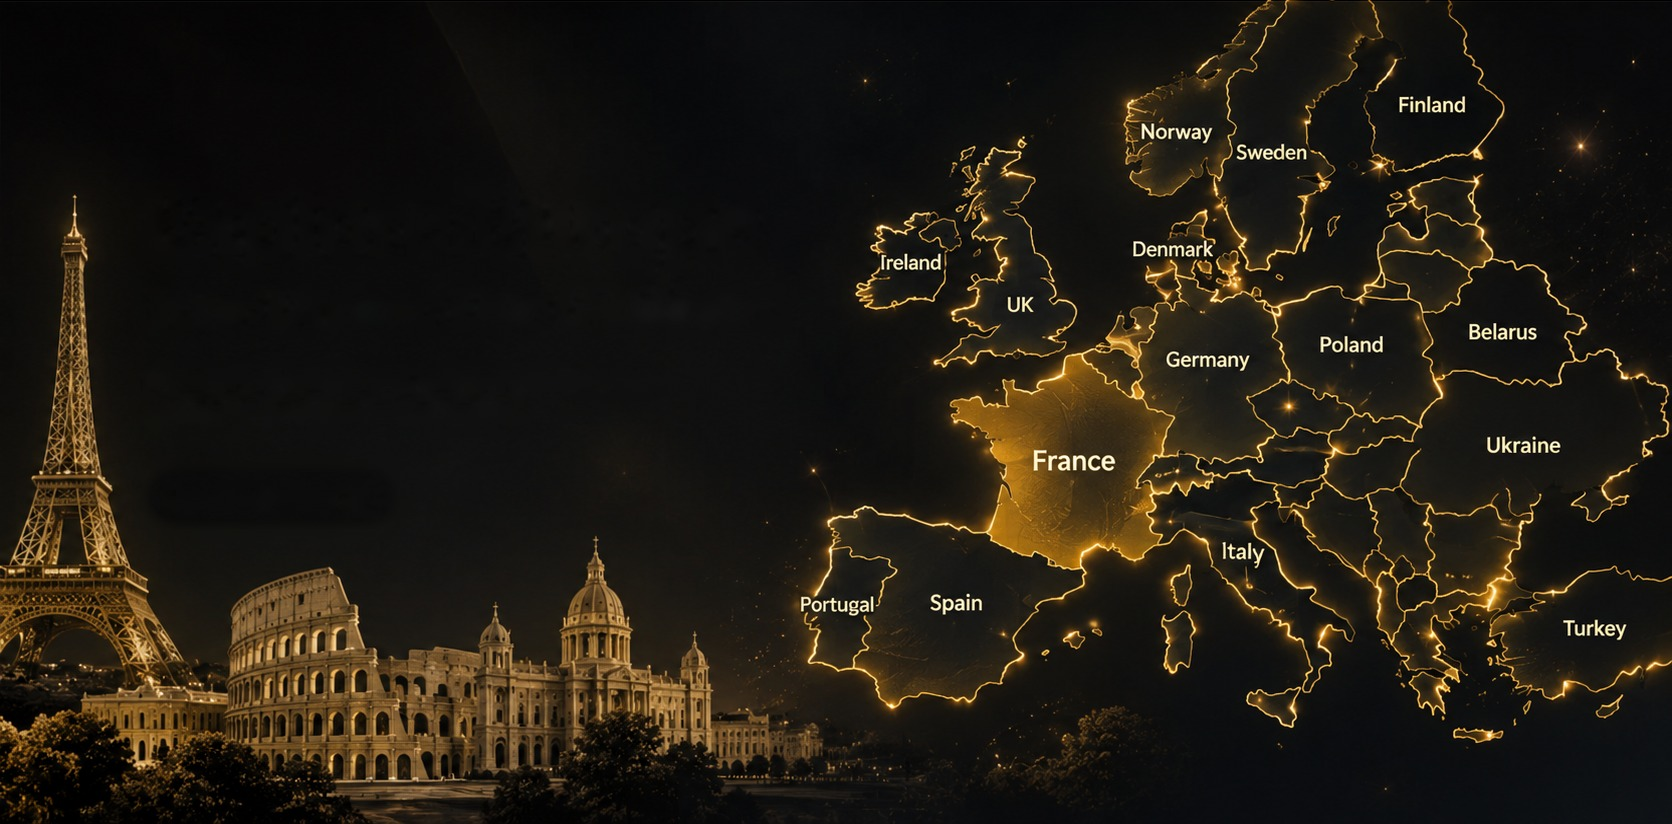
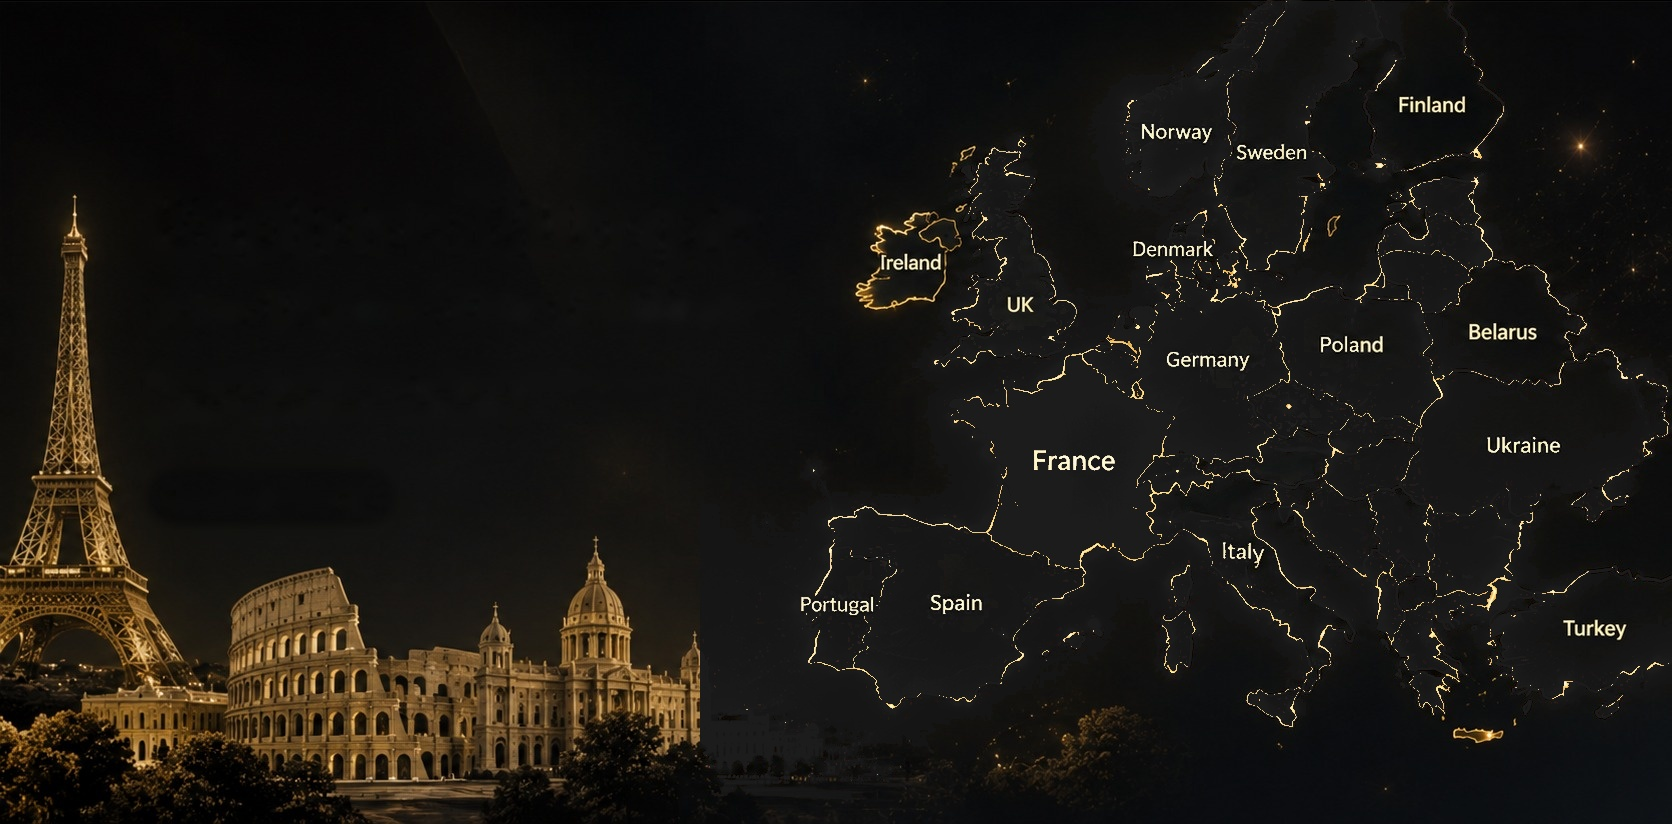
feat: Remove static France glow so glow only appears on country hover (Norway, France, Germany, etc.)

diff --git a/src/app/HomeClient.tsx b/src/app/HomeClient.tsx
@@ -1099,14 +1099,14 @@ function HeroSection() {
           </filter>
         </defs>
 
-        {/* Dynamic Country Glow on hover */}
+        {/* Dynamic Country Glow on hover - ONLY lights up when that specific country is hovered */}
         {EUROPE_COUNTRIES.map((c) => {
           const isHovered = hoveredCountry?.id === c.id
-          if (!isHovered && c.id !== 'france') return null
+          if (!isHovered) return null
 
           return (
-            <g key={`glow-group-${c.id}`}>
-              {/* Soft radial ambient illumination */}
+            <g key={`glow-group-${c.id}`} className="transition-opacity duration-300">
+              {/* Soft radial ambient illumination matching France's signature gold */}
               <ellipse
                 cx={c.cx}
                 cy={c.cy}
@@ -1115,17 +1115,17 @@ function HeroSection() {
                 fill={`url(#amber-glow-${c.id})`}
                 filter="url(#country-blur)"
                 style={{ mixBlendMode: 'screen' }}
-                className="transition-all duration-300 pointer-events-none"
+                className="pointer-events-none"
               />
-              {/* Precise bright highlight circle */}
+              {/* Concentrated bright core highlight */}
               <ellipse
                 cx={c.cx}
                 cy={c.cy}
-                rx={Math.round(c.rx * 0.75)}
-                ry={Math.round(c.ry * 0.75)}
+                rx={Math.round(c.rx * 0.72)}
+                ry={Math.round(c.ry * 0.72)}
                 fill={`url(#amber-glow-${c.id})`}
                 style={{ mixBlendMode: 'color-dodge' }}
-                className="transition-all duration-300 pointer-events-none opacity-80"
+                className="pointer-events-none opacity-90"
               />
             </g>
           )
@@ -1135,7 +1135,6 @@ function HeroSection() {
       {/* Interactive Map Hotspots Overlay (Desktop / Tablet) */}
       <div className="absolute inset-0 pointer-events-none z-20">
         {EUROPE_COUNTRIES.map((country) => {
-          const isFrance = country.id === 'france'
           const isHovered = hoveredCountry?.id === country.id
 
           return (
@@ -1155,13 +1154,11 @@ function HeroSection() {
                 onMouseLeave={() => setHoveredCountry(null)}
                 onClick={() => handleCountryActivate(country)}
               >
-                {/* Glow ring for France or Hovered state */}
+                {/* Glow ring on hover */}
                 <div
                   className={`absolute -inset-3 rounded-full transition-all duration-300 ${
-                    isFrance
-                      ? 'bg-[#d6a548]/30 map-pin-pulse shadow-[0_0_25px_#d6a548]'
-                      : isHovered
-                      ? 'bg-[#d6a548]/40 scale-125 shadow-[0_0_20px_#e6c27a]'
+                    isHovered
+                      ? 'bg-[#d6a548]/45 scale-125 shadow-[0_0_25px_#d6a548] opacity-100'
                       : 'opacity-0 group-hover:opacity-100 group-hover:bg-[#d6a548]/25'
                   }`}
                 />
@@ -1169,14 +1166,12 @@ function HeroSection() {
                 {/* Pin Core */}
                 <div
                   className={`relative flex items-center justify-center rounded-full transition-all duration-300 border ${
-                    isFrance
-                      ? 'w-6 h-6 md:w-8 md:h-8 bg-[#d6a548] border-white shadow-lg text-black font-extrabold ring-4 ring-[#d6a548]/40'
-                      : isHovered
-                      ? 'w-6 h-6 md:w-7 md:h-7 bg-[#d6a548] border-white scale-110 shadow-md ring-2 ring-[#d6a548]/50'
+                    isHovered
+                      ? 'w-6 h-6 md:w-8 md:h-8 bg-[#d6a548] border-white scale-110 shadow-lg ring-4 ring-[#d6a548]/40 text-black font-extrabold'
                       : 'w-4 h-4 md:w-5 md:h-5 bg-black/60 border-[#d6a548]/80 group-hover:bg-[#d6a548] group-hover:border-white'
                   }`}
                 >
-                  {isFrance ? (
+                  {country.id === 'france' && isHovered ? (
                     <GraduationCap className="w-3.5 h-3.5 md:w-4 md:h-4 text-black" />
                   ) : (
                     <div className="w-1.5 h-1.5 bg-[#d6a548] group-hover:bg-black rounded-full" />
@@ -1186,10 +1181,8 @@ function HeroSection() {
                 {/* Country Label tag */}
                 <div
                   className={`absolute left-1/2 -bottom-6 -translate-x-1/2 px-2 py-0.5 rounded text-[11px] font-bold tracking-wide whitespace-nowrap transition-all duration-200 pointer-events-none ${
-                    isFrance
-                      ? 'bg-[#d6a548] text-black shadow-md opacity-100'
-                      : isHovered
-                      ? 'bg-black/90 text-[#e6c27a] border border-[#d6a548]/50 opacity-100 translate-y-0.5'
+                    isHovered
+                      ? 'bg-[#d6a548] text-black shadow-md opacity-100 translate-y-0.5'
                       : 'opacity-0 group-hover:opacity-100 bg-black/80 text-white'
                   }`}
                 >
